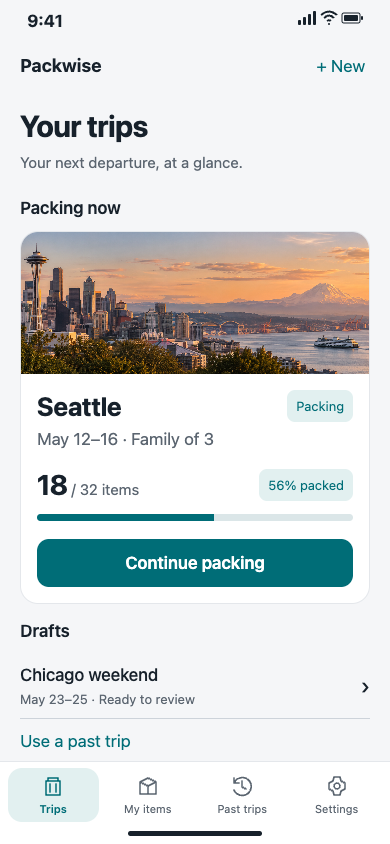
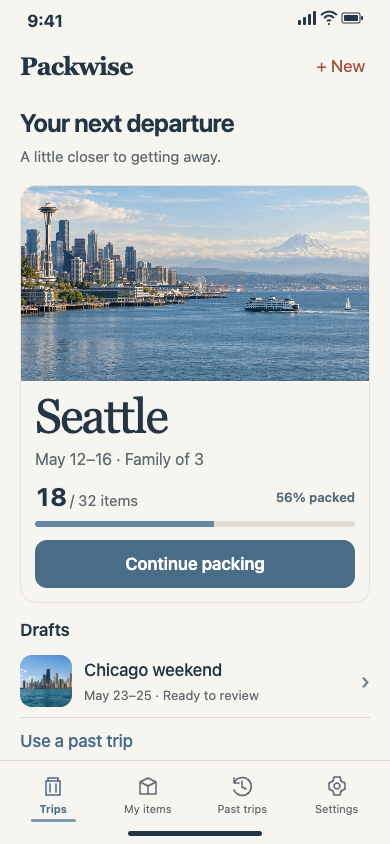
Replace showcase with Packwise and NourishSet examples

diff --git a/README.md b/README.md
@@ -6,43 +6,25 @@
 
 ## 页面案例
 
-### 对话原型精选
-
-以下三张是用户从设计对话中提供的原型截图，原样收录。Packwise 展示旅行封面与打包进度，NourishSet 展示预算、备餐成本与每日餐单，Headroom 展示预计余额与账单时间提醒。它们是不同产品的设计案例，可参考各自的信息层级、图片用途和主要操作。
-
-| Packwise · 旅行打包 | NourishSet · 饮食规划 | Headroom · 现金流 |
-| --- | --- | --- |
-| <a href="assets/examples/packwise-reference.png"><img src="assets/examples/packwise-reference.png" width="260" alt="Packwise 对话原型：西雅图行程封面、打包进度与继续打包入口"></a> | <a href="assets/examples/nourishset-plan-reference.png"><img src="assets/examples/nourishset-plan-reference.png" width="260" alt="NourishSet 对话原型：42 美元购物预算、备餐时间与每日三餐"></a> | <a href="assets/examples/headroom-reference.png"><img src="assets/examples/headroom-reference.png" width="260" alt="Headroom 对话原型：1240 美元预计余额、发薪前提醒与近期收支"></a> |
-
-截图记录的是对话中的具体版本，不代表项目当前最新界面。NourishSet 截图底部导航未完整显示。以下保留更多页面案例，来源与文件校验值见 [案例清单](assets/examples/manifest.json)。
-
-以下是本工作区已有设计项目的 **HTML 可交互原型实拍截图**，用于展示页面布局和视觉效果，并非原生 iOS App 截图，也不是本轮新生成的概念图。展示的是各项目已保存的具体版本；示例数据与图片不代表真实账户、行程或用户照片。点击图片可以查看原尺寸。
-
-### Headroom · 预算与现金流
-
-以预计可用余额为首页视觉中心，结合账单时间提醒和记账入口；周期支出页集中呈现金额、扣款账户和本次记录状态。首页采用 round-06 截图，周期支出页采用基准截图。
-
-| 预算概览 | 周期支出 |
-| --- | --- |
-| <a href="assets/examples/headroom-overview.jpg"><img src="assets/examples/headroom-overview.jpg" width="280" alt="Headroom 预算首页：预计余额、发薪前提醒和待办账单"></a> | <a href="assets/examples/headroom-recurring-payment.jpg"><img src="assets/examples/headroom-recurring-payment.jpg" width="280" alt="Headroom 周期支出：房租金额、账户和记录付款按钮"></a> |
+以下为用户提供的 Packwise 与 NourishSet 页面图片，原样收录。点击图片可查看原尺寸。
 
 ### Packwise · 旅行打包清单
 
-采用「A 行程映像」v2 交付包：行程封面与打包进度帮助用户继续当前旅行，草稿审阅页展示分类、物品数量与理由，并保留明确的清单确认动作。
+行程首页展示目的地封面、打包进度与继续打包入口；物品页支持搜索、分类查看，以及管理已有或可借用的旅行用品。
 
-| 行程首页 | 清单草稿审阅 |
+| 行程首页 | 我的物品 |
 | --- | --- |
-| <a href="assets/examples/packwise-home.png"><img src="assets/examples/packwise-home.png" width="280" alt="Packwise 行程首页：西雅图封面、打包进度和旅行草稿"></a> | <a href="assets/examples/packwise-review.png"><img src="assets/examples/packwise-review.png" width="280" alt="Packwise 草稿审阅：衣物分类、建议数量和确认清单按钮"></a> |
+| <a href="assets/examples/packwise-home.png"><img src="assets/examples/packwise-home.png" width="280" alt="Packwise 行程首页：西雅图封面、打包进度与旅行草稿"></a> | <a href="assets/examples/packwise-items.png"><img src="assets/examples/packwise-items.png" width="280" alt="Packwise 我的物品：搜索、分类与旅行用品列表"></a> |
 
-### Memoria Select · 照片筛选与故事整理
+### NourishSet · 饮食规划
 
-采用六页 MVP 的首页与复核页：以照片为主体，用 Keep、Maybe、Leave out 表达筛选状态，再进入故事整理。此项目界面采用英式英语，宠物照片为生成示例。
+计划页集中展示购物预算、备餐时间、每日餐单与营养目标；购物页按食材类别展示待购物品、数量和预估价格。
 
-| 照片集合入口 | 照片复核 |
+| 饮食计划 | 购物清单 |
 | --- | --- |
-| <a href="assets/examples/memoria-home.png"><img src="assets/examples/memoria-home.png" width="280" alt="Memoria Select 集合入口：宠物示例照片与创建项目按钮"></a> | <a href="assets/examples/memoria-review.png"><img src="assets/examples/memoria-review.png" width="280" alt="Memoria Select 照片复核：锚点、保留与待定选择"></a> |
+| <a href="assets/examples/nourishset-plan.png"><img src="assets/examples/nourishset-plan.png" width="280" alt="NourishSet 饮食计划：预算、备餐时间、每日餐单与营养目标"></a> | <a href="assets/examples/nourishset-shop.png"><img src="assets/examples/nourishset-shop.png" width="280" alt="NourishSet 购物清单：预估总价、分类金额与食材数量"></a> |
 
-这里展示视觉与交互设计成果，不代表银行、AI、系统照片库或支付等正式服务已接入。截图原样收录，来源版本与 SHA-256 记录见 [案例清单](assets/examples/manifest.json)。
+案例用于展示界面设计，示例金额、行程和食材不代表真实用户数据，也不表示正式服务已接入。文件来源与 SHA-256 记录见 [案例清单](assets/examples/manifest.json)。
 
 ## 工作流程
 
